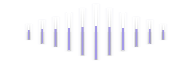
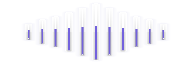
Bolder glass bars: thicker strokes, stronger indigo, wider glow
- Edge stroke 3px (was 2.2), glow radius 7px (was 4.5)
- Indigo fill 85% opacity (was 55%) — pops on light and dark
- Indigo edge tint 65% (was 40%) for vivid colored edges
- Glass body fill 22% (was 18%) for better baseline visibility
- Outer glow 50% strength (was 35%), indigo-tinted in fill zone
- Glow turns indigo when volume active for colored halo effect

diff --git a/app/make_wave_icons.py b/app/make_wave_icons.py
@@ -145,8 +145,8 @@ def draw_wave_edge(w, h, fill_level):
     - Outer glow for visibility on any background
     """
     pixels = []
-    stroke_w = 2.2 / w   # bold edge stroke (~2.2 pixels)
-    glow_w = 4.5 / w     # outer glow radius
+    stroke_w = 3.0 / w   # extra bold edge stroke (~3 pixels)
+    glow_w = 7.0 / w     # wider outer glow radius
 
     for py in range(h):
         for px in range(w):
@@ -171,7 +171,7 @@ def draw_wave_edge(w, h, fill_level):
 
                 # Outer glow (soft falloff outside the bar)
                 if d > 0:
-                    glow_alpha = clamp(1.0 - d / glow_w) * 0.35
+                    glow_alpha = clamp(1.0 - d / glow_w) * 0.5
                 else:
                     glow_alpha = 0.0
 
@@ -205,8 +205,8 @@ def draw_wave_edge(w, h, fill_level):
                 brightness = clamp(brightness, 0.45, 1.0)
 
                 if best_in_fill_zone:
-                    # Edge in fill zone: bright indigo-white mix
-                    mix = 0.4  # 40% indigo tint
+                    # Edge in fill zone: vivid indigo edge
+                    mix = 0.65  # 65% indigo tint for punchy color
                     r = int((IND_R * mix + 255 * (1 - mix)) * brightness)
                     g = int((IND_G * mix + 255 * (1 - mix)) * brightness)
                     b = int((IND_B * mix + 255 * (1 - mix)) * brightness)
@@ -218,18 +218,22 @@ def draw_wave_edge(w, h, fill_level):
 
             elif best_inside > 0.01:
                 if best_in_fill_zone:
-                    # Visible indigo fill inside bars
+                    # Strong indigo fill inside bars — pops on any background
                     r, g, b = IND_R, IND_G, IND_B
-                    a = int(clamp(best_inside * 0.55) * 255)
+                    a = int(clamp(best_inside * 0.85) * 255)
                 else:
                     # Glass body: semi-transparent white
                     r, g, b = 255, 255, 255
-                    a = int(clamp(best_inside * 0.18) * 255)
+                    a = int(clamp(best_inside * 0.22) * 255)
 
             elif best_glow > 0.01:
-                # Outer glow: soft white halo
-                r, g, b = 220, 220, 235
-                a = int(clamp(best_glow) * 255)
+                # Outer glow: indigo-tinted when volume active, white otherwise
+                if best_in_fill_zone:
+                    r, g, b = IND_R, IND_G, IND_B
+                    a = int(clamp(best_glow * 0.7) * 255)
+                else:
+                    r, g, b = 220, 220, 240
+                    a = int(clamp(best_glow) * 255)
 
             pixels.append((r, g, b, a))
     return pixels
